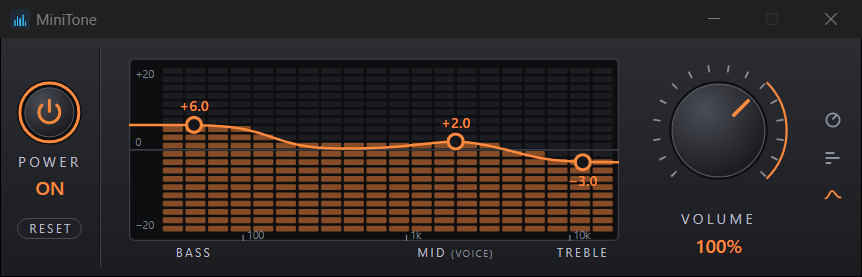
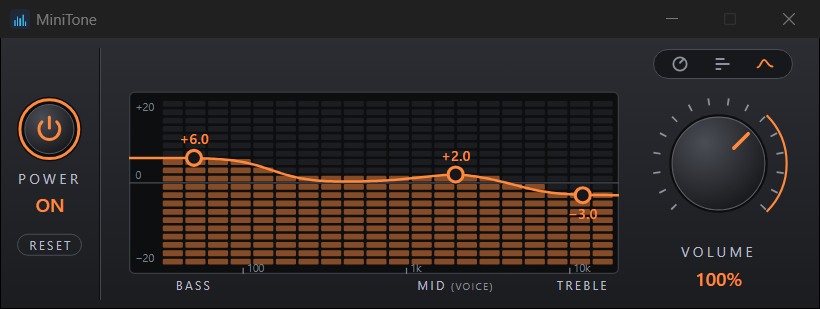
表示の切り替えを、右の端からツマミの上に移す（案 P4-3）
ツマミの上に 26 px の帯を足し、その右に、丸い枠で囲んだ 3 つの絵を横に並べる。
ウィンドウは 688 x 190 → 654 x 216。README の絵 3 枚を作り直した。

diff --git a/app/ui/style.css b/app/ui/style.css
@@ -23,7 +23,8 @@ body {
   position: relative;
   display: flex;
   flex-direction: column;
-  padding: 14px 0 12px;
+  /* 上の 26 px は、表示の切り替えの帯。その下に、いままでと同じ 14 px の空き。 */
+  padding: 40px 0 12px;
   background: linear-gradient(180deg, var(--panel-top) 0%, var(--panel-bottom) 100%);
   color: var(--text);
   font-family: "Segoe UI", "Yu Gothic UI", system-ui, sans-serif;
@@ -145,9 +146,9 @@ main {
   min-height: 0;
 }
 
-/* 横の並び（ウィンドウの幅 688 px）:
-   電源の区画 78 px、縦線 2 px、そのあと「空き 22 px + ツマミ 116 px」が 4 つ、
-   空き 22 px、表示の切り替えの絵 20 px、右の端の空き 14 px。 */
+/* 横の並び（ウィンドウの幅 654 px）:
+   電源の区画 78 px、縦線 2 px、そのあと「空き 22 px + ツマミ 116 px」が 4 つ、右の端の空き 22 px。
+   表示の切り替えは、ツマミの上の帯（高さ 26 px）の右に置く。 */
 .control {
   display: flex;
   flex-direction: column;
@@ -157,12 +158,14 @@ main {
   margin-left: 22px;
 }
 
-/* 電源の列は、上から 電源のボタン、POWER、ON / OFF、RESET。区画のまんなかに置く。 */
+/* 電源の列は、上から 電源のボタン、POWER、ON / OFF、RESET。区画のまんなかに置く。
+   上下は、切り替えの帯（26 px）も含めたウィンドウの高さのまんなかにする（帯の半分だけ上げる）。 */
 .control.power {
   width: 78px;
   margin-left: 0;
   margin-right: 2px;
   gap: 4px;
+  transform: translateY(-13px);
 }
 
 .control.power .value {
@@ -196,12 +199,12 @@ main {
 
 /* 電源の列と BASS の列の間の縦線。暗い線と明るい線を 1 px ずつ並べ、パネルに彫った溝に見せる。
    位置は、電源の区画（78 px）のすぐ右。
-   ウィンドウの上の端と下の端から 8 px ずつ空ける（body の上下の余白 14 px と 12 px の中に、はみ出させる）。 */
+   ウィンドウの上の端と下の端から 8 px ずつ空ける（body の上下の余白 40 px と 12 px の中に、はみ出させる）。 */
 main::before {
   content: "";
   position: absolute;
   left: 78px;
-  top: -6px;
+  top: -32px;
   bottom: -4px;
   width: 2px;
   background: linear-gradient(90deg, #0d0e10 50%, #44474f 50%);
@@ -291,7 +294,7 @@ body:not(.digital) #bars {
   display: none;
 }
 
-/* 左の空きは 22 px（ツマミのときと同じ）。右は、空き 22 px + 切り替えの絵 20 px + 端の空き 14 px。 */
+/* 左右の空きは 22 px（ツマミのときと同じ）。 */
 #bars {
   flex: 1;
   display: flex;
@@ -299,7 +302,7 @@ body:not(.digital) #bars {
   justify-content: center;
   gap: 11px;
   min-width: 0;
-  padding: 0 56px 0 22px;
+  padding: 0 22px;
 }
 
 #bars .row {
@@ -489,21 +492,23 @@ body:not(.on) .point .num {
   fill: var(--muted);
 }
 
-/* 表示の切り替え。右の端のまんなかに、小さい絵を縦に 3 つ。 */
+/* 表示の切り替え。ツマミの上の帯の右（VOLUME の列の右の端にそろえる）に、
+   丸い枠で囲んだ小さい絵を横に 3 つ。 */
 #view {
   position: absolute;
-  right: 14px;
-  top: 50%;
+  right: 22px;
+  top: 9px;
   display: flex;
-  flex-direction: column;
-  gap: 10px;
-  transform: translateY(-50%);
+  padding: 1px 4px;
+  border: 1px solid var(--line);
+  border-radius: 12px;
+  background: #17181b;
 }
 
 #view button {
-  width: 20px;
+  width: 34px;
   height: 20px;
-  padding: 2px;
+  padding: 2px 9px;
   border: none;
   background: none;
   cursor: pointer;

diff --git a/app/ui/index.html b/app/ui/index.html
@@ -143,7 +143,7 @@
       </div>
     </main>
 
-    <!-- 表示の切り替え。上からツマミ、バー、曲線。いまの表示がオレンジに光る。 -->
+    <!-- 表示の切り替え。ツマミの上の右に、左からツマミ、バー、曲線。いまの表示がオレンジに光る。 -->
     <div id="view">
       <button type="button" id="view-analog" aria-pressed="true" aria-label="Knob view" title="Knobs">
         <svg viewBox="-12 -12 24 24" aria-hidden="true"><circle r="8" /><path d="M0 -1.5L4.2 -5.7" /></svg>

diff --git a/CLAUDE.md b/CLAUDE.md
@@ -41,9 +41,11 @@
   - Mid は 2 kHz を中心に ±20 dB（山の形のフィルタ、設定ファイルの `band=2000,増減,0.7`。2026-11-20 にユーザーが「2 kHz で 20 dB」と決定）。声の聞き取りに効く帯域。調べたことと経緯は `docs/plans/archive/three-band-tone.md`。
   - Treble、Mid、Bass を上げると、音がデジタルの上限を超え、APO の後ろにある Windows のリミッターが全体を下げて、音が揺れる（2026-11-19 に確認）。これを防ぐため、APO は上げている帯域の上げ幅を、出力が上限を超えない範囲に自動で抑える（設定の `limit=1`）。全体の音量は下げない。大きい音の場面では上げ幅が減り、小さい音の場面では設定どおり上がる。経緯と試算は `docs/plans/archive/tone-wobble.md`。
 - **プリセットは入れない。出力デバイスごとの設定は持たない**（設定は全部のデバイスで共通。2026-11-20 にユーザーが決定）。
-- 画面は小さい横長のウィンドウ（688 x 190）。左から、電源の丸い押しボタン（直径 52 px）、BASS、MID、TREBLE、VOLUME。黒いアルミのパネルにオレンジの指針。
+- 画面は小さい横長のウィンドウ（654 x 216）。左から、電源の丸い押しボタン（直径 52 px）、BASS、MID、TREBLE、VOLUME。黒いアルミのパネルにオレンジの指針。
   - 電源のボタンの下（"ON" の下）に、小さい RESET のボタン。押すと 4 つのツマミが全部まんなか（0 dB、100%）に戻る。電源の入り切りは変えない。電源の列と BASS の列の間に、彫った溝の形の細い縦線（ウィンドウの上の端と下の端から 8 px ずつ空ける）。2026-11-20 にユーザーが案 K4-2 を選び、そのあと実物を見て縦線の長さを決めた。
-  - 横の並び: 電源の区画 78 px（ボタンはまんなか）、縦線 2 px、そのあと縦線とツマミ、ツマミ同士、VOLUME と表示の切り替えの絵の空きが全部 22 px（ツマミは 116 px）、切り替えの絵 20 px、右の端の空き 14 px。ウィンドウの幅は 688 px（2026-11-20 にユーザーが案 L4-5 で 730 → 688 px にし、切り替えの絵を入れるときに案 U4 でいまの並びにした）。
+  - 横の並び: 電源の区画 78 px（ボタンはまんなか）、縦線 2 px、そのあと縦線とツマミ、ツマミ同士、VOLUME と右の端の空きが全部 22 px（ツマミは 116 px）。ウィンドウの幅は 654 px。
+  - 縦の並び: 上に、表示の切り替えの帯（26 px）。その下は、いままでと同じ（上の空き 14 px、ツマミの列、下の空き 12 px）。ウィンドウの高さは 216 px。電源の列は、ウィンドウの高さのまんなか。
+  - 2026-11-20 にユーザーが案 L4-5 で幅を 730 → 688 px にし、切り替えの絵を右の端に入れるときに案 U4 にした。同じ日、切り替えをツマミの上に移すときに案 P4-3 で 654 x 216 にした（経緯は `docs/plans/view-switch-top.md`）。
 - **表示は 3 つあり、画面で切り替える**（アナログとデジタルは 2026-11-20 にユーザーが決定。曲線の表示は同じ日に足した）。
   - アナログの表示: 4 つのツマミ。
   - デジタルの表示: LED の並んだ横のバーが 4 行。左に名前、右に数字。BASS、MID、TREBLE はまんなか（0 dB）から左右に光り、VOLUME は左から光って 100% を超えた分は明るい色（案 B）。
@@ -52,7 +54,8 @@
     - 線の後ろに LED の棒が 20 本並び、下の端から、その周波数での線の高さまで光る（1 粒 2 dB）。
     - 点の左右の位置は、BASS が 50 Hz、MID が 2 kHz、TREBLE が 12 kHz。BASS と TREBLE は、フィルタの周波数（150 Hz、5 kHz）ではなく、線がほぼ設定の値に届く平らなところに置く。点は設定の値の高さにある。
     - 点はつかんで上下に動かす（点はマウスに付いてくる）。0 dB の線の 3 px 以内は 0 dB になる。ホイール、矢印キー、ダブルクリックで戻るのは、ツマミと同じ。
-  - 切り替えは、右の端のまんなかに縦に並べた 3 つの小さい絵（上からツマミ、バー、曲線）。いまの表示がオレンジ。
+  - 切り替えは、ツマミの上の帯の右（VOLUME の列の右の端にそろえる）に、丸い枠で囲んで横に並べた 3 つの小さい絵（左からツマミ、バー、曲線）。いまの表示がオレンジ（2026-11-20 にユーザーが案 P4-3 を選んだ。前は、右の端のまんなかに縦に並べていた）。
+    - 上の端に出る知らせ（"Not active on … yet."）は、出ている間、切り替えに重なる。
   - どの表示かは、画面のアプリが覚える（WebView の localStorage）。音には関係しないので、設定ファイルには書かない。
   - バーは、押した場所の値になる（2026-11-20 にユーザーが決定。はじめはツマミと同じ「ドラッグした分だけ動く」で作ったが、変えた）。ドラッグするとマウスに付いてくる。まんなかの印の 3 px 以内は、まんなかの値（0 dB、100%）になる。ホイール、矢印キー、ダブルクリックで戻るのは、ツマミと同じ。
 - 画面のデザインは、ハードウェアのアンプの前面パネル（回すツマミ）の雰囲気にする。特定のメーカーの製品のロゴ、名前、見た目そのものは写さない。

diff --git a/docs/plans/view-switch-top.md b/docs/plans/view-switch-top.md
@@ -1,0 +1,53 @@
+# 表示の切り替えを、右の端からツマミの上に移す
+
+## 目的・背景
+
+2026-11-20 にユーザーが指示した（原文「ツマミぶぶんの表示切替が右にあるけど、つまみの上部に移動する。デザインを作成してそこから決める」）。
+
+いまの切り替えは、右の端のまんなかに縦に並べた 3 つの小さい絵（ツマミ、バー、曲線）。ウィンドウは 688 x 190 で、ツマミの列（ツマミ 116 px、名前、値）が高さをほぼ使い切っているので、上に置くには、高さを足すか、ツマミを小さくする必要がある。
+
+## 対応方針
+
+### Step 1: デザイン案を 5 つ作る（2026-11-20、済み）
+
+画面のファイルの写しに CSS だけを足し、ヘッドレスの Edge に 3 つの表示を描かせた。値は BASS +6.0 dB、MID +2.0 dB、TREBLE −3.0 dB、VOLUME 100%。絵はコミットしない（非公開の Artifact のページに置いた）。
+
+どの案も、右の端の列が無くなり、右の空きは左と同じ 22 px。電源のボタンはウィンドウの高さのまんなか。
+
+- P1: ツマミの上に 20 px の帯を足し、右に寄せて絵を横に 3 つ。ウィンドウは 654 x 210。
+- P2: P1 と同じ帯で、絵をツマミの並びのまんなかに。654 x 210。
+- P3: 絵をやめて文字のタブ（KNOBS、BARS、CURVE）。BASS の上から左にそろえる。654 x 210。
+- P4: P2 の絵を、丸い枠で 1 つにまとめる。654 x 210。
+- P5: 高さは 190 px のまま、ツマミを 116 → 100 px にして上に帯を作る。絵は右。590 x 190。グラフも同じ割合で小さくなる。
+
+気づいたこと: 上の端に出る知らせ（"Not active on … yet."、高さ 26 px）は、出ている間、切り替えに重なる。
+
+### Step 1 の続き: P4 のバランスを見直した案（2026-11-20、済み）
+
+ユーザーが「P4が一番イメージに近い。バランスを見直したデザインをいくつか作って」と指示。5 つ作り、同じページの上に足した。どれも幅 654 px で、ツマミ、バー、グラフの大きさはいまと同じ。
+
+- P4-1: 帯を 20 → 26 px に広げる（654 x 216）。枠の上が 9 px。枠の大きさと場所は P4 のまま。
+- P4-2: 絵 1 つぶんを 34 → 42 px 幅にし、いまの表示の後ろに明るい地を付ける。帯は 30 px（654 x 220）。
+- P4-3: P4-1 の枠を、VOLUME の列の右の端にそろえる。
+- P4-4: P4-1 の枠を、BASS の列の左の端にそろえる。
+- P4-5: 帯とツマミの間に、彫った溝の横線を入れる。帯は 32 px（654 x 222）。
+
+### Step 2: ユーザーが案を選ぶ（2026-11-20、済み）
+
+ユーザーが「P4-3 で実装して」と決定。
+
+### Step 3: 選ばれた案で作る（2026-11-20、作った。ユーザーの確認はまだ）
+
+- `app/ui/style.css`: 上に 26 px の帯を足し（body の上の余白 14 → 40 px）、切り替えを帯の右（右の端から 22 px、上から 9 px）に、丸い枠で囲んで横に並べた。右の端の列を無くした（バーの右の余白 56 → 22 px）。電源の列は帯の半分（13 px）だけ上げ、ウィンドウの高さのまんなかにした。縦線は上の端から 8 px のまま。
+- `app/src-tauri/tauri.conf.json`: ウィンドウを 688 x 190 → 654 x 216。
+- README の絵 3 枚を作り直し、切り替えの場所の説明を直した。CLAUDE.md の画面の説明を直した。
+- 確かめたこと: 画面のファイルをヘッドレスの Edge に描かせ、3 つの表示とも案 P4-3 のとおりで崩れていないことを絵で見た。`app/build.ps1` が通った。実物のウィンドウは、ユーザーの確認待ち。
+
+## 影響範囲
+
+- 画面のアプリ（`app/ui/`、ウィンドウの大きさ）。APO、設定ファイル、Rust 側の処理は変えない。
+
+## テスト方針
+
+- `app/build.ps1` が通ること。
+- ユーザーが sx360 で、3 つの表示の見た目と、切り替えを確かめる。知らせが出ているときの見た目も見る。

diff --git a/TODO.md b/TODO.md
@@ -20,6 +20,16 @@
 
 ## 実装
 
+- [~] 表示の切り替えを、右の端からツマミの上に移す [plan](docs/plans/view-switch-top.md)
+  - [x] Step 1: デザイン案を 5 つ作る（P1〜P5、2026-11-20）
+  - [x] P4 のバランスを見直した案を作る（P4-1〜P4-5、2026-11-20。ユーザーが「P4 が一番イメージに近い」）
+  - [x] Step 2: ユーザーが案を選ぶ（2026-11-20、P4-3）
+  - [x] Step 3: 選ばれた案で作る（2026-11-20。ウィンドウは 654 x 216。ビルドとテストが通った）
+  - [ ] ユーザーが sx360 で確かめる（3 つの表示の見た目、切り替え、知らせが出ているときの見た目）
+  - 2026-11-20 にユーザーが指示（原文「ツマミぶぶんの表示切替が右にあるけど、つまみの上部に移動する。デザインを作成してそこから決める」）
+  - デザイン案を作り、そこから決める
+  - 関連: いまの切り替え（右の端のまんなかに縦に 3 つの絵）を決めた経緯（[済んだプラン](docs/plans/archive/digital-display.md)）
+
 ## 配布
 
 - [~] 配布の準備をする [plan](docs/plans/distribution.md)

diff --git a/README.md b/README.md
@@ -80,7 +80,7 @@ Download `MiniTone-setup.exe` from the [latest release](https://github.com/akira
 
 Then start MiniTone from the Start menu. Press the power button on the left to turn it on, and turn the knobs.
 
-- The three small icons on the right switch between the knob view, the LED bar view and the curve view.
+- The three small icons at the top right switch between the knob view, the LED bar view and the curve view.
 - Knobs: drag left or right, use the mouse wheel, or use the arrow keys. Hold Shift while dragging for fine steps.
 - Bars: click a position on a bar to set that value, or drag along it. The mouse wheel and the arrow keys work too.
 - Mid is centered at 2 kHz, the range that makes voices easier to hear. The panel labels it "MID (VOICE)".
